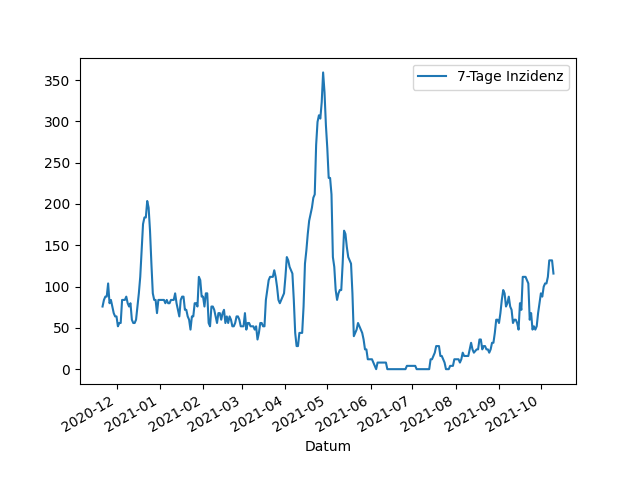
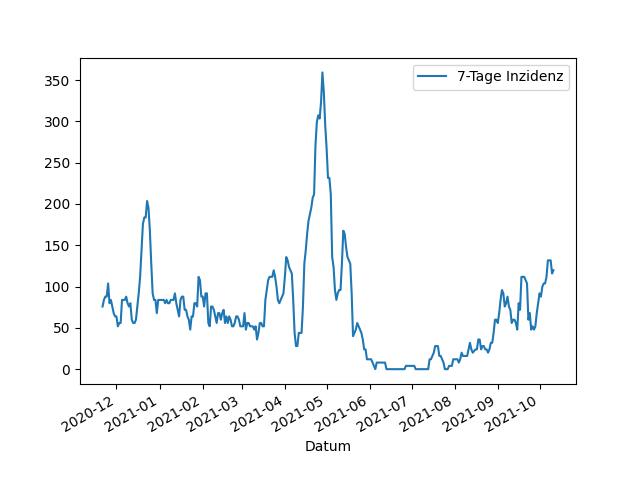
Update images

diff --git a/_includes/aktuelle_inzidenz.md b/_includes/aktuelle_inzidenz.md
@@ -1,1 +1,1 @@
-115,8
+119,8
